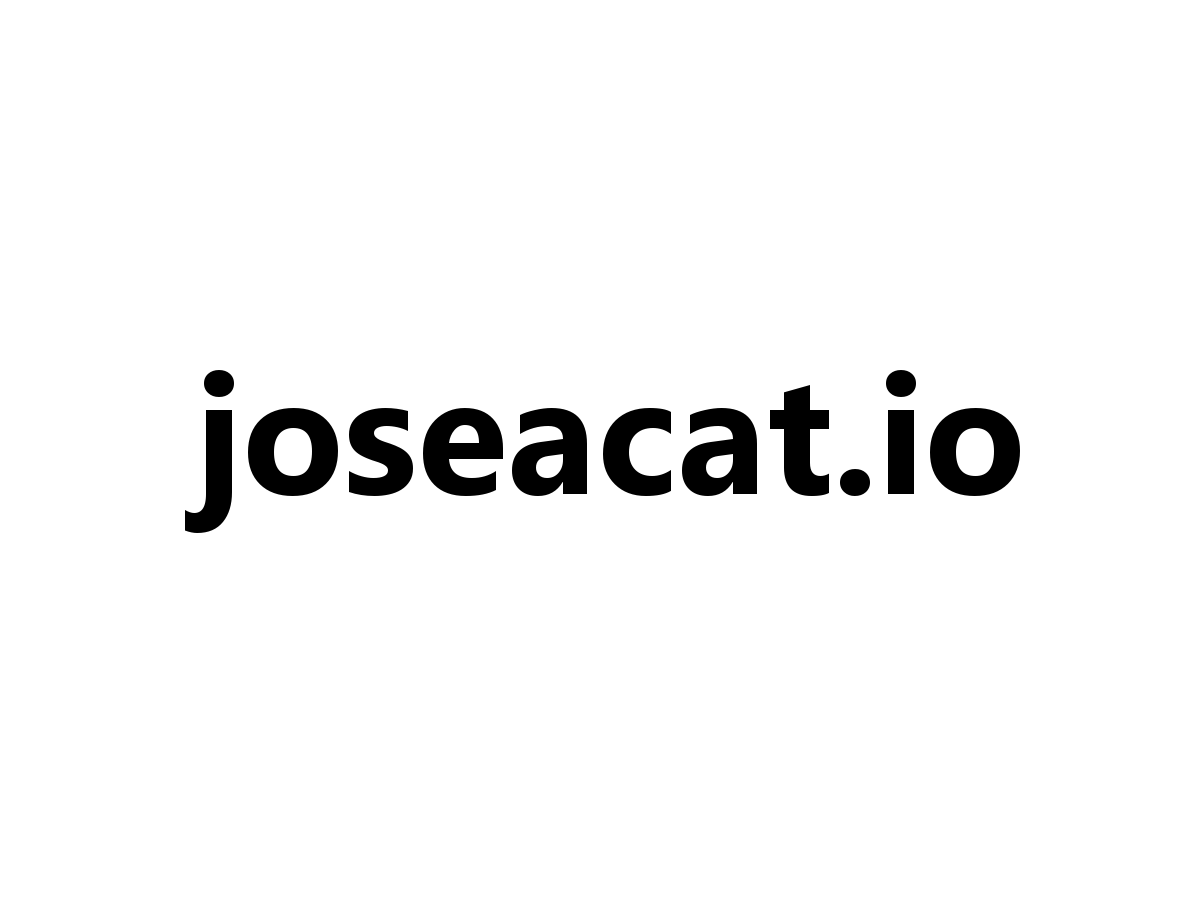
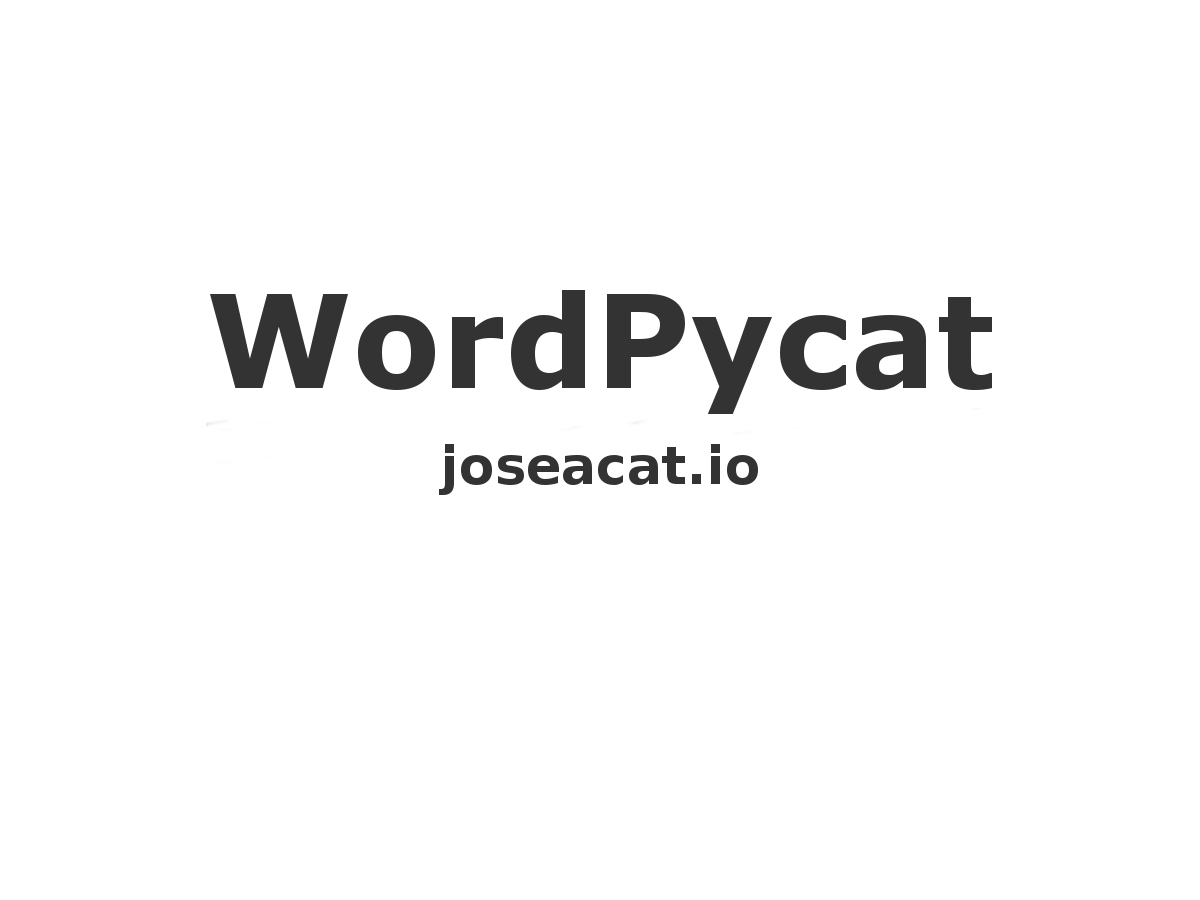
Limpieza de código
Limpia código, elimina Bootstrap y añade la opción de añadir logo en el link de la cabecera.

Changed region(s): [[0.1542, 0.3111, 0.8633, 0.5911]]

diff --git a/style.css b/style.css
@@ -1,5 +1,5 @@
 /*
-Theme Name: Wordpycat
+Theme Name: WordPycat
 Author: Jose A. Catalan
 Author URI: http://joseacat.io/
 Description: This is a blank bootstrap and fontawesome theme for wordpress.
@@ -11,18 +11,114 @@ License URI: http://www.gnu.org/licenses/gpl-2.0.html
 
 /* General */
 html{
-  background: gainsboro;
+  background: #F4F4F4;
 }
 
-.contenido-principal{
-  padding-top: 60px;
+/* Estilos generales para textos */
+/* =WordPress Core
+-------------------------------------------------------------- */
+.alignnone {
+    margin: 5px 20px 20px 0;
 }
 
-.img-listado{
-  text-align: center;
+.aligncenter,
+div.aligncenter {
+    display: block;
+    margin: 5px auto 5px auto;
 }
 
-.img-listado img{
-  max-width: 100%;
-  height: auto;
+.alignright {
+    float:right;
+    margin: 5px 0 20px 20px;
+}
+
+.alignleft {
+    float: left;
+    margin: 5px 20px 20px 0;
+}
+
+a img.alignright {
+    float: right;
+    margin: 5px 0 20px 20px;
+}
+
+a img.alignnone {
+    margin: 5px 20px 20px 0;
+}
+
+a img.alignleft {
+    float: left;
+    margin: 5px 20px 20px 0;
+}
+
+a img.aligncenter {
+    display: block;
+    margin-left: auto;
+    margin-right: auto;
+}
+
+.wp-caption {
+    background: #fff;
+    border: 1px solid #f0f0f0;
+    max-width: 96%; /* Image does not overflow the content area */
+    padding: 5px 3px 10px;
+    text-align: center;
+}
+
+.wp-caption.alignnone {
+    margin: 5px 20px 20px 0;
+}
+
+.wp-caption.alignleft {
+    margin: 5px 20px 20px 0;
+}
+
+.wp-caption.alignright {
+    margin: 5px 0 20px 20px;
+}
+
+.wp-caption img {
+    border: 0 none;
+    height: auto;
+    margin: 0;
+    max-width: 98.5%;
+    padding: 0;
+    width: auto;
+}
+
+.wp-caption p.wp-caption-text {
+    font-size: 11px;
+    line-height: 17px;
+    margin: 0;
+    padding: 0 4px 5px;
+}
+
+/* Text meant only for screen readers. */
+.screen-reader-text {
+	clip: rect(1px, 1px, 1px, 1px);
+	position: absolute !important;
+        white-space: nowrap;
+	height: 1px;
+	width: 1px;
+	overflow: hidden;
+}
+
+.screen-reader-text:focus {
+	background-color: #f1f1f1;
+	border-radius: 3px;
+	box-shadow: 0 0 2px 2px rgba(0, 0, 0, 0.6);
+	clip: auto !important;
+	color: #21759b;
+	display: block;
+	font-size: 14px;
+	font-size: 0.875rem;
+	font-weight: bold;
+	height: auto;
+	left: 5px;
+	line-height: normal;
+	padding: 15px 23px 14px;
+	text-decoration: none;
+	top: 5px;
+	width: auto;
+	z-index: 100000; /* Above WP toolbar. */
 }

diff --git a/functions.php b/functions.php
@@ -1,33 +1,75 @@
 <?php
-/**
- * Funciones extras para el tema Woopystrap
+/*
+ * Funciones extras para el tema Wordpycat
  */
 
-/**
+/*
  * Registramos los menús para nuestro tema
  */
+add_action( 'init', 'registrar_menus' );
 function registrar_menus() {
+  
   register_nav_menus(
     array(
       'menu-principal' => __( 'Menú principal' ),
       'menu-secundario' => __( 'Menú secundario' )
     )
   );
+
 }
-add_action( 'init', 'registrar_menus' );
+
+/*
+ * Añade JS y CSS al tema
+ */
+add_action('wp_enqueue_scripts', 'registrar_jscss');
+function registrar_jscss(){
+  
+  /*
+   * Añadimos las hojas de estilos
+   */
+ wp_enqueue_style('style', get_stylesheet_uri());
+
+  /*
+   * Añadimos los archivos JavaScript
+   */
+  wp_enqueue_script('jqueryjs', 'https://code.jquery.com/jquery-3.1.1.min.js');
+
+}
+
+/*
+ * Para que el tema soporte post-thumbnails
+ */
+add_theme_support( 'post-thumbnails' );
 
 
 /**
- * Añadimos las hojas de estilos
+ * Registrar el sidebar
  */
- wp_enqueue_style('style', get_stylesheet_uri());
- wp_enqueue_style('bootstrapcss', 'https://maxcdn.bootstrapcdn.com/bootstrap/3.3.7/css/bootstrap.min.css');
+function registrar_sidebar() {
+  register_sidebar( array(
+    'name' => __( 'Sidebar lateral', 'wordpycat' ),
+    'id' => 'sidebar-1',
+    'description' => __( 'Sidebar WordPycat.', 'wordpycat' ),
+    'class' => 'footer-sidebar',
+    'before_widget' => '<li id="%1$s" class="widget %2$s">',
+    'after_widget'  => '</li>',
+    'before_title'  => '<h3>',
+    'after_title'   => '</h3>',
+  ));
+}
+add_action( 'widgets_init', 'registrar_sidebar' );
 
- /**
-  * Añadimos los archivos JavaScript
-  */
-  wp_enqueue_script('jqueryjs', 'https://code.jquery.com/jquery-3.1.1.min.js');
-  wp_enqueue_script('bootstrapjs', 'https://maxcdn.bootstrapcdn.com/bootstrap/3.3.7/js/bootstrap.min.js');
-
-
-add_theme_support( 'post-thumbnails' );
+/**
+ * Permite utilizar la funcionalidad de WordPress para añadir logo al header
+ */
+function custom_logo_tema() {
+    $defaults = array(
+        'height'      => 100,
+        'width'       => 400,
+        'flex-height' => true,
+        'flex-width'  => true,
+        'header-text' => array( 'site-title', 'site-description' ),
+    );
+    add_theme_support( 'custom-logo', $defaults );
+}
+add_action( 'after_setup_theme', 'custom_logo_tema' );

diff --git a/header.php b/header.php
@@ -9,24 +9,28 @@
     <?php wp_head(); ?>
   </head>
 <body <?php body_class(isset($class) ? $class : ''); ?>>
-  <nav class="navbar navbar-default navbar-fixed-top" role="navigation">
-        <div class="container">
-            <!-- Brand and toggle get grouped for better mobile display -->
-            <div class="navbar-header">
-                <button type="button" class="navbar-toggle" data-toggle="collapse" data-target="#bs-example-navbar-collapse-1">
-                    <span class="sr-only">Toggle navigation</span>
-                    <span class="icon-bar"></span>
-                    <span class="icon-bar"></span>
-                    <span class="icon-bar"></span>
-                </button>
-                <a class="navbar-brand" href="#"><?php bloginfo('name'); ?></a>
+  <nav class="navbar-cabecera" role="navigation">
+        <div class="contenedor">
+            <div class="navbar-logo">
+                <?php
+                $logo_id = get_theme_mod('custom_logo');
+                $logo = wp_get_attachment_image_src($logo_id, 'full');
+                if(has_custom_logo()){
+                ?>
+                    <img src="<?php echo esc_url($logo[0]); ?>">
+                <?php
+                }else{
+                ?>
+                    <h1> <?php echo get_bloginfo( 'name' ); ?> </h1>
+                <?php
+                }
+                ?>
             </div>
-            <!-- Collect the nav links, forms, and other content for toggling -->
-            <div class="collapse navbar-collapse" id="bs-example-navbar-collapse-1">
+            <div class="navbar-menu">
                 <?php wp_nav_menu( array( 'theme_location' => 'menu-principal',  'menu_class' => 'nav navbar-nav' ) ); ?>
             </div>
             <!-- /.navbar-collapse -->
         </div>
         <!-- /.container -->
     </nav>
-    <div class="container contenido-principal">
+    <div class="contenedor contenido-principal">

diff --git a/index.php b/index.php
@@ -7,20 +7,20 @@
 // Cabecera
 get_header(); ?>
 
-<div class="row">
+<div class="fila">
 <?php
 if(have_posts()){
   while(have_posts()){
 ?>
     <?php the_post(); ?>
-    <section class="col-md-4 col-sm-12">
-      <div class="img-listado">
+    <section>
+      <div>
         <?php
         if(has_post_thumbnail()){
           the_post_thumbnail('thumbnail');
         }else{
           ?>
-          <img src="<?php echo get_template_directory_uri(); ?>/recursos/img/sin-imagen.jpg" alt="Sin imagen">
+          <img src="<?php echo get_template_directory_uri(); ?>/recursos/img/sin-imagen.jpg" alt="<?php _x('Sin imagen', 'woopycat'); ?>">
           <?php
         }
         ?>

diff --git a/archive.php b/archive.php
@@ -11,7 +11,7 @@ get_header(); ?>
 if(have_posts()){
   while(have_posts()){
     the_post();
-    if(has_thumbnail){
+    if(has_post_thumbnail()){
       the_post_thumbnail();
     } ?>
     <a href="<?php the_permalink(); ?>">

diff --git a/page.php b/page.php
@@ -9,7 +9,7 @@ get_header(); ?>
 <?php
 if(have_posts()){
   the_post();
-  if(has_thumbnail){
+  if(has_post_thumbnail()){
     the_post_thumbnail();
   }
   the_title('<h1>','</h1>');

diff --git a/single.php b/single.php
@@ -7,7 +7,7 @@
 get_header(); ?>
 
 <?php
-if(have_posts()){
+if(has_post_thumbnail()){
   the_post();
   if(has_thumbnail){
     the_post_thumbnail();
